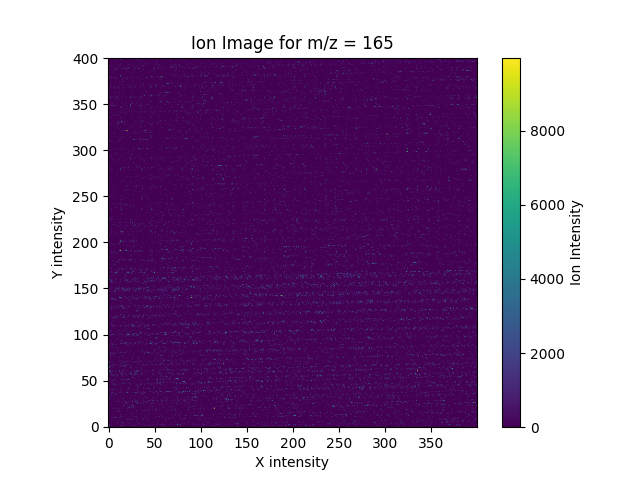
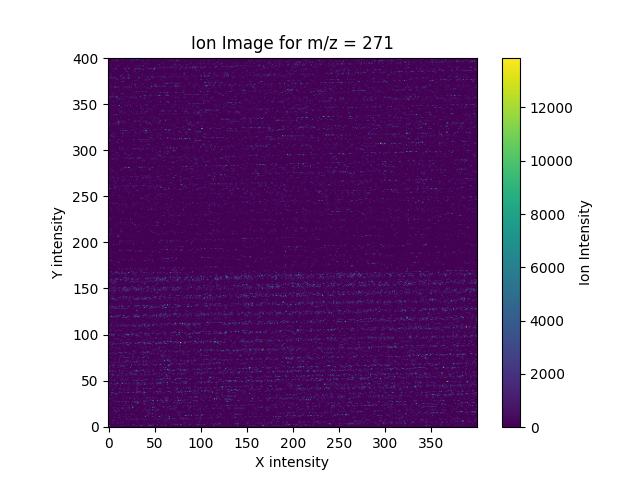
Cancer image 271

diff --git a/src/Openh5.py b/src/Openh5.py
@@ -31,7 +31,7 @@ print("Done adding to array!")
 import numpy as np
 import matplotlib.pyplot as plt
 # Choose the m/z you want to plot  and tolerance
-target_mz = 165
+target_mz = 271
 tolerance = 0.02
 
 # Get image dimensions
